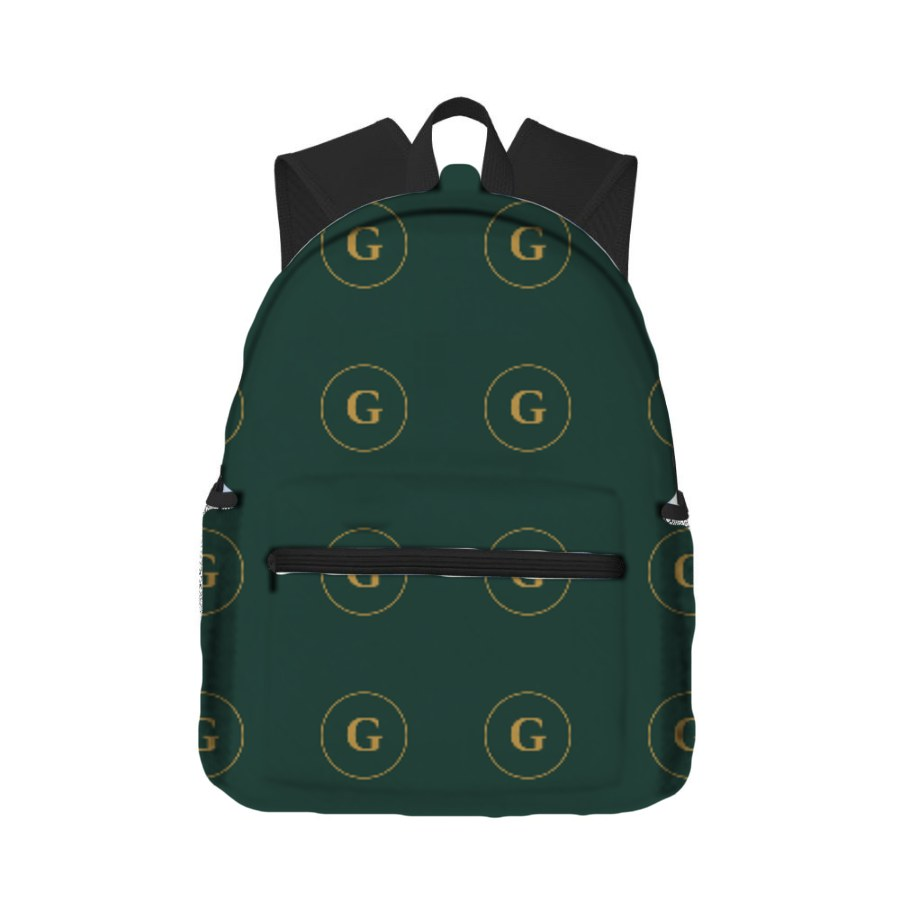
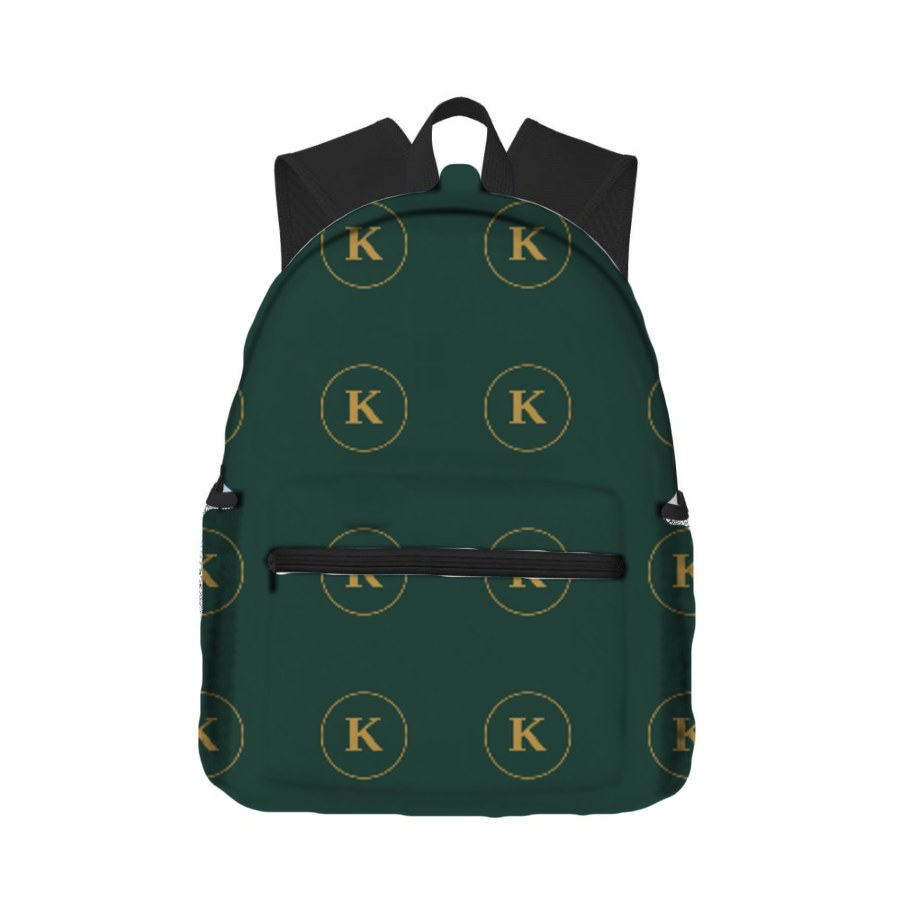
Rename brand to Kindmark
Claude-Session: https://claude.ai/code/session_01EX7dfQTzd4p9Q7Wff7ikou

diff --git a/store/src/config/site.ts b/store/src/config/site.ts
@@ -3,7 +3,7 @@
  * 之後做其他國家版時，每個國家站各自部署並用環境變數覆寫即可。
  */
 export const site = {
-  brand: process.env.NEXT_PUBLIC_BRAND ?? "Open Gift",
+  brand: process.env.NEXT_PUBLIC_BRAND ?? "Kindmark",
   brandZh: process.env.NEXT_PUBLIC_BRAND_LOCAL ?? "",
   locale: process.env.NEXT_PUBLIC_SITE_LOCALE ?? "zh-TW",
   currency: process.env.NEXT_PUBLIC_CURRENCY ?? "TWD",

diff --git a/store/README.md b/store/README.md
@@ -1,4 +1,4 @@
-# Open Gift — 客製化禮品一站式電商
+# Kindmark — 客製化禮品一站式電商
 
 Next.js 15（App Router）＋ Drizzle ORM ＋ SQLite/libSQL ＋ Fabric.js。
 
